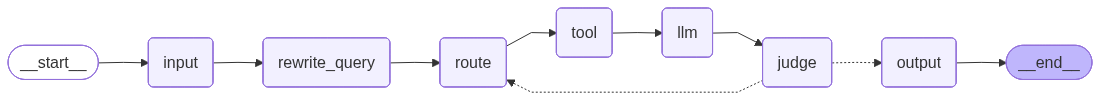
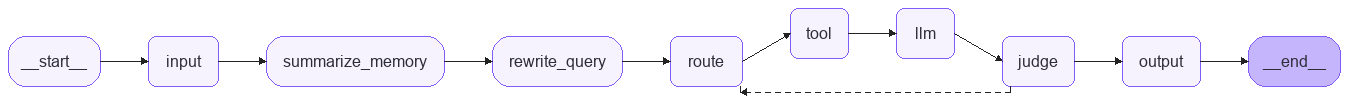
增加记忆摘要

diff --git a/web/src/components/WorkflowBar.tsx b/web/src/components/WorkflowBar.tsx
@@ -1,4 +1,4 @@
-import { BrainCircuit, CheckCircle2, GitBranch, Search, ShieldCheck, Sparkles } from "lucide-react";
+import { Archive, BrainCircuit, CheckCircle2, GitBranch, Search, ShieldCheck, Sparkles } from "lucide-react";
 import type { QueryResult } from "../types";
 
 const fallbackSteps = [
@@ -15,7 +15,14 @@ type Props = {
 
 export function WorkflowBar({ latestResult }: Props) {
   const route = latestResult?.route_history?.at(-1);
-  const steps = fallbackSteps.map((step) => {
+  const baseSteps = latestResult?.memory_summary_result?.triggered
+    ? [
+        fallbackSteps[0],
+        { label: "记忆摘要", icon: Archive, state: "passed" },
+        ...fallbackSteps.slice(1)
+      ]
+    : fallbackSteps;
+  const steps = baseSteps.map((step) => {
     if (step.label === "Qdrant 检索" && route?.action) {
       return { ...step, label: route.action === "keyword_search" ? "BM25 检索" : "Qdrant 检索" };
     }

diff --git a/web/src/types.ts b/web/src/types.ts
@@ -33,6 +33,11 @@ export type QueryResult = {
     reason?: string;
     suggested_action?: string;
   };
+  memory_summary_result?: {
+    triggered?: boolean;
+    removed_count?: number;
+    summary_length?: number;
+  };
 };
 
 export type FlowStep = {

diff --git a/re0rag/nodes.py b/re0rag/nodes.py
@@ -13,7 +13,7 @@ from pathlib import Path
 sys.path.insert(0, str(Path(__file__).resolve().parent.parent))
 import config
 
-from langchain_core.messages import AIMessage, HumanMessage
+from langchain_core.messages import AIMessage, HumanMessage, RemoveMessage, SystemMessage
 from langchain_core.prompts import ChatPromptTemplate
 from langchain_openai import ChatOpenAI
 
@@ -76,6 +76,12 @@ def _format_history(messages: list) -> str:
     return "\n".join(lines) if lines else "（无）"
 
 
+def _format_summary(summary: str | None) -> str:
+    """把长期摘要格式化为 prompt 片段。"""
+    summary = (summary or "").strip()
+    return summary if summary else "（无）"
+
+
 def _history_before_current_question(messages: list, question: str) -> list:
     """
     取当前问题之前的对话历史。
@@ -100,6 +106,65 @@ def _as_bool(value, default: bool = False) -> bool:
     return default
 
 
+@trace_span(
+    "rag.memory_summary",
+    attributes=lambda args, kwargs, result: {
+        "summary.length": len((result or {}).get("conversation_summary") or ""),
+        "removed.count": len((result or {}).get("messages") or []),
+    },
+)
+def summarize_memory_node(state: RAGState) -> dict:
+    """
+    长对话记忆压缩节点。
+    当 messages 超过阈值时，把最早若干条对话合并进 conversation_summary，
+    并通过 RemoveMessage 从 MessagesState 中删除这些旧消息。
+    """
+    messages = list(state.get("messages") or [])
+    trigger = int(config.MEMORY_SUMMARY_TRIGGER_MESSAGES)
+    chunk_size = int(config.MEMORY_SUMMARY_CHUNK_MESSAGES)
+    if len(messages) <= trigger:
+        return {}
+
+    to_summarize = messages[:chunk_size]
+    removable = [msg for msg in to_summarize if getattr(msg, "id", None)]
+    if not removable:
+        print("[记忆] 历史超过阈值，但旧消息缺少 id，跳过摘要压缩")
+        return {}
+
+    old_summary = _format_summary(state.get("conversation_summary"))
+    archived_history = _format_history(to_summarize)
+    print(f"[记忆] 历史消息 {len(messages)} 条，正在摘要前 {len(removable)} 条旧消息")
+
+    prompt = ChatPromptTemplate.from_messages(
+        [
+            ("system", config.MEMORY_SUMMARY_SYSTEM_PROMPT),
+            ("user", config.MEMORY_SUMMARY_USER_PROMPT_TEMPLATE),
+        ]
+    )
+    llm = _make_llm()
+    response = (prompt | llm).invoke(
+        {
+            "summary": old_summary,
+            "history": archived_history,
+            "max_chars": config.MEMORY_SUMMARY_MAX_CHARS,
+        }
+    )
+    new_summary = response.content.strip()
+    if len(new_summary) > config.MEMORY_SUMMARY_MAX_CHARS:
+        new_summary = new_summary[: config.MEMORY_SUMMARY_MAX_CHARS].rstrip()
+
+    print(f"[记忆] 已摘要 {len(removable)} 条旧消息，摘要长度: {len(new_summary)} 字符")
+    return {
+        "conversation_summary": new_summary,
+        "memory_summary_result": {
+            "triggered": True,
+            "removed_count": len(removable),
+            "summary_length": len(new_summary),
+        },
+        "messages": [RemoveMessage(id=msg.id) for msg in removable],
+    }
+
+
 @trace_span("rag.input")
 def input_node(state: RAGState) -> dict:
     """
@@ -117,6 +182,7 @@ def input_node(state: RAGState) -> dict:
         "max_retries": config.AGENT_MAX_RETRIES,
         "route_history": [],
         "judge_result": {},
+        "memory_summary_result": {},
         "messages": [HumanMessage(content=question)],
     }
 
@@ -136,6 +202,7 @@ def rewrite_node(state: RAGState) -> dict:
     question = state["question"]
     # messages 由 add_messages 累积，含本轮 HumanMessage 与历史
     history = _format_history(state.get("messages", [])[:-1])  # 去掉刚追加的本轮问题
+    summary = _format_summary(state.get("conversation_summary"))
 
     prompt = ChatPromptTemplate.from_messages(
         [
@@ -145,7 +212,7 @@ def rewrite_node(state: RAGState) -> dict:
     )
     llm = _make_llm()
     chain = prompt | llm
-    response = chain.invoke({"history": history, "question": question})
+    response = chain.invoke({"summary": summary, "history": history, "question": question})
     rewritten = response.content.strip()
 
     print(f"[改写] 检索 query: {rewritten}")
@@ -265,7 +332,18 @@ def llm_node(state: RAGState) -> dict:
     messages = prompt.format_messages(context=context, question=question)
     # 前置历史对话（不含本轮问题及本轮内部失败候选答案）
     history = _history_before_current_question(state.get("messages", []), question)
-    full_messages = history + messages
+    summary = (state.get("conversation_summary") or "").strip()
+    if summary:
+        summary_message = SystemMessage(
+            content=(
+                "此前对话摘要如下，仅用于理解用户指代和延续对话；"
+                "回答论文事实问题时仍必须以本轮检索证据为准。\n"
+                f"{summary}"
+            )
+        )
+        full_messages = messages[:1] + [summary_message] + history + messages[1:]
+    else:
+        full_messages = history + messages
 
     response = llm.invoke(full_messages)
     answer = response.content

diff --git a/config.py b/config.py
@@ -129,6 +129,32 @@ LLM_MAX_TOKENS = 1024    # 单次回答最大 token 数
 
 
 # ──────────────────────────────────────────────
+# 多轮记忆摘要配置
+# messages 超过阈值后，将最早若干条对话压缩进 conversation_summary，
+# 再从 messages 中删除，避免长对话无限膨胀。
+# ──────────────────────────────────────────────
+MEMORY_SUMMARY_TRIGGER_MESSAGES = 10
+MEMORY_SUMMARY_CHUNK_MESSAGES = 6
+MEMORY_SUMMARY_MAX_CHARS = 1800
+
+MEMORY_SUMMARY_SYSTEM_PROMPT = (
+    "你是一个严谨的对话记忆整理助手。你的任务是更新长期对话摘要，"
+    "用于后续多轮问答中的指代消解和上下文延续。"
+    "请只总结用户与助手已经明确讨论过的信息，不要编造。"
+    "摘要应保留用户目标、约束、偏好、已确认的实现决策、正在讨论的论文/方法/实验对象，"
+    "以及对后续理解“它”“这个”“上面的方法”等指代有帮助的信息。"
+    "不要保留寒暄、重复表达、临时进度、无关细节。"
+    "摘要不是论文事实证据，不能把检索片段中未被对话明确采用的信息写成事实。"
+)
+
+MEMORY_SUMMARY_USER_PROMPT_TEMPLATE = (
+    "已有长期摘要：\n{summary}\n\n"
+    "本次需要归档的早期对话：\n{history}\n\n"
+    "请输出更新后的长期摘要，控制在 {max_chars} 个中文字符以内。"
+)
+
+
+# ──────────────────────────────────────────────
 # Prompt 模板
 # {question} 用户问题，{context} 检索到的片段拼接文本
 # context 中已由 format_context 拼入所属论文的标题/期刊/作者/摘要，
@@ -161,7 +187,8 @@ REWRITE_SYSTEM_PROMPT = (
 )
 
 REWRITE_USER_PROMPT_TEMPLATE = (
-    "对话历史：\n{history}\n\n"
+    "长期对话摘要：\n{summary}\n\n"
+    "最近对话历史：\n{history}\n\n"
     "当前问题：{question}\n\n"
     "改写后的检索查询："
 )

diff --git a/api/server.py b/api/server.py
@@ -61,6 +61,7 @@ class QueryResponse(BaseModel):
     documents: list[dict[str, Any]]
     route_history: list[dict[str, Any]]
     judge_result: dict[str, Any]
+    memory_summary_result: dict[str, Any]
 
 
 class SettingsPayload(BaseModel):
@@ -276,12 +277,17 @@ def _result_payload(result: dict[str, Any], thread_id: str) -> dict[str, Any]:
         "documents": _compact_evidence(result.get("documents") or []),
         "route_history": result.get("route_history") or [],
         "judge_result": result.get("judge_result") or {},
+        "memory_summary_result": result.get("memory_summary_result") or {},
     }
 
 
 def _progress_message(line: str) -> str | None:
     if "[输入]" in line:
         return "已收到问题"
+    if "[记忆]" in line:
+        if "正在摘要" in line:
+            return "正在压缩对话记忆"
+        return "已压缩对话记忆"
     if "[改写]" in line:
         return "正在改写 query"
     if "[路由]" in line:
@@ -335,7 +341,7 @@ def _stream_query(payload: QueryRequest):
         try:
             from re0rag.graph import run
 
-            events.put({"type": "progress", "status": "正在改写 query", "detail": "启动 RAG 工作流"})
+            events.put({"type": "progress", "status": "启动 RAG 工作流", "detail": "启动 RAG 工作流"})
             writer = QueueWriter(events)
             with contextlib.redirect_stdout(writer):
                 result = run(question, thread_id=thread_id, verbose=True)

diff --git a/re0rag/edges.py b/re0rag/edges.py
@@ -21,12 +21,14 @@ from .nodes import (
     output_node,
     rewrite_node,
     route_node,
+    summarize_memory_node,
     tool_node,
 )
 
 
 # 节点名称常量，供 graph.py 统一引用
 NODE_INPUT = "input"
+NODE_SUMMARIZE_MEMORY = "summarize_memory"
 NODE_REWRITE = "rewrite_query"
 NODE_ROUTE = "route"
 NODE_TOOL = "tool"
@@ -56,13 +58,14 @@ def judge_router(state) -> str:
 def add_edges(graph) -> None:
     """
     向 StateGraph 注册节点并连线。
-    顺序：START -> input -> rewrite_query -> route -> tool -> llm -> judge
+    顺序：START -> input -> summarize_memory -> rewrite_query -> route -> tool -> llm -> judge
           judge -> output / route
 
     Args:
         graph: langgraph 的 StateGraph 实例
     """
     graph.add_node(NODE_INPUT, input_node)
+    graph.add_node(NODE_SUMMARIZE_MEMORY, summarize_memory_node)
     graph.add_node(NODE_REWRITE, rewrite_node)
     graph.add_node(NODE_ROUTE, route_node)
     graph.add_node(NODE_TOOL, tool_node)
@@ -71,7 +74,8 @@ def add_edges(graph) -> None:
     graph.add_node(NODE_OUTPUT, output_node)
 
     graph.add_edge(START, NODE_INPUT)
-    graph.add_edge(NODE_INPUT, NODE_REWRITE)
+    graph.add_edge(NODE_INPUT, NODE_SUMMARIZE_MEMORY)
+    graph.add_edge(NODE_SUMMARIZE_MEMORY, NODE_REWRITE)
     graph.add_edge(NODE_REWRITE, NODE_ROUTE)
     graph.add_edge(NODE_ROUTE, NODE_TOOL)
     graph.add_edge(NODE_TOOL, NODE_LLM)

diff --git a/re0rag/state.py b/re0rag/state.py
@@ -13,6 +13,7 @@ class RAGState(MessagesState):
 
     字段流转：
         input_node      -> question, retry_count, max_retries, messages(追加 HumanMessage)
+        summarize_memory_node -> conversation_summary, memory_summary_result, messages(删除已摘要旧消息)
         rewrite_node    -> rewritten_query
         route_node      -> route_decision, selected_tool, tool_query, route_history
         tool_node       -> tool_results, evidence, sources
@@ -21,10 +22,15 @@ class RAGState(MessagesState):
         output_node     -> 输出并附带 sources / judge_result
 
     messages 字段由 MessagesState 提供，带 add_messages reducer（追加语义），
-    累积全部对话历史，供 rewrite_node 与 llm_node 读取上文。
+    累积近期对话历史，供 rewrite_node 与 llm_node 读取上文。
+    conversation_summary 保存被压缩的早期对话摘要。
     """
     # 节点1 输入：用户提问原文
     question: str
+
+    # 记忆摘要：超过阈值的早期 messages 会压缩进这里
+    conversation_summary: str
+    memory_summary_result: dict
 
     # 节点2 查询改写：消解指代后的独立检索 query
     rewritten_query: str

diff --git a/cli/cli.py b/cli/cli.py
@@ -281,7 +281,7 @@ def cmd_reindex_keywords(args: list[str]) -> int:
 
 def cmd_query(args: list[str], trace: bool = False) -> int:
     """
-    RAG 问答：输入问题，走 input→rewrite→route→tool→llm→judge→output 链路。
+    RAG 问答：输入问题，走 input→summarize_memory→rewrite→route→tool→llm→judge→output 链路。
     用法: python main.py -cli query <问题>      单次提问后退出（独立会话）
           python main.py -cli query -t <问题>   单次提问并显示完整流程
           python main.py -cli query             交互式循环提问（共享会话历史，输入 exit/quit 退出）
@@ -313,7 +313,7 @@ def cmd_query(args: list[str], trace: bool = False) -> int:
             preload_rag()
     print("系统就绪，输入问题开始提问（输入 exit 或 quit 退出）。")
     if trace:
-        print("当前为 trace 模式，将显示改写、路由、工具调用和检查流程。")
+        print("当前为 trace 模式，将显示记忆摘要、改写、路由、工具调用和检查流程。")
     print("-" * 60)
 
     while True: